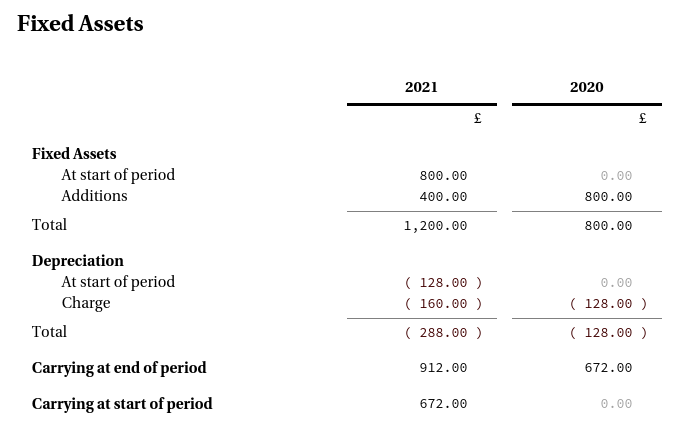
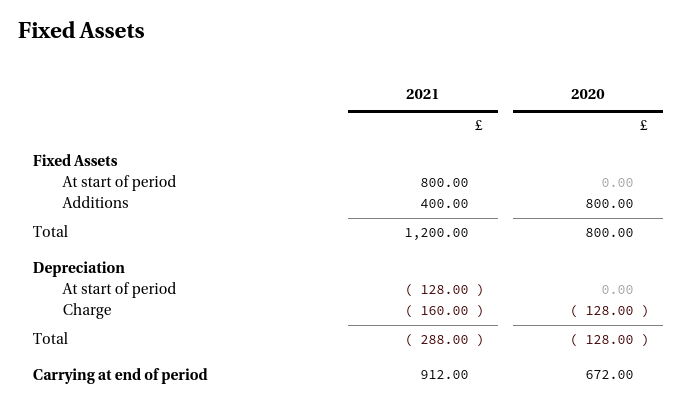
Add share capital to screenshots

diff --git a/docs/screenshots.md b/docs/screenshots.md
@@ -88,7 +88,15 @@ Total                                   :   (288.00)   (128.00)
 
 Carrying at end of period               :    912.00     672.00  
 
-Carrying at start of period             :    672.00          -  
+
+*** Share Capital ***
+                                               2021       2020  
+
+Share Capital:
+  Ordinary Shares                       :   3750.00    3750.00  
+  Preference Shares                     :   4250.00    1250.00  
+  Shares Issued                         :         -    3000.00  
+Total                                   :   8000.00    8000.00  
 ```
 
 ## iXBRL output (in a browser)
@@ -100,6 +108,8 @@ Carrying at start of period             :    672.00          -
 ![alt text](report-income.png)
 
 ![alt text](report-assets.png)
+
+![alt text](report-shares.png)
 
 ![alt text](report-notes.png)
 
